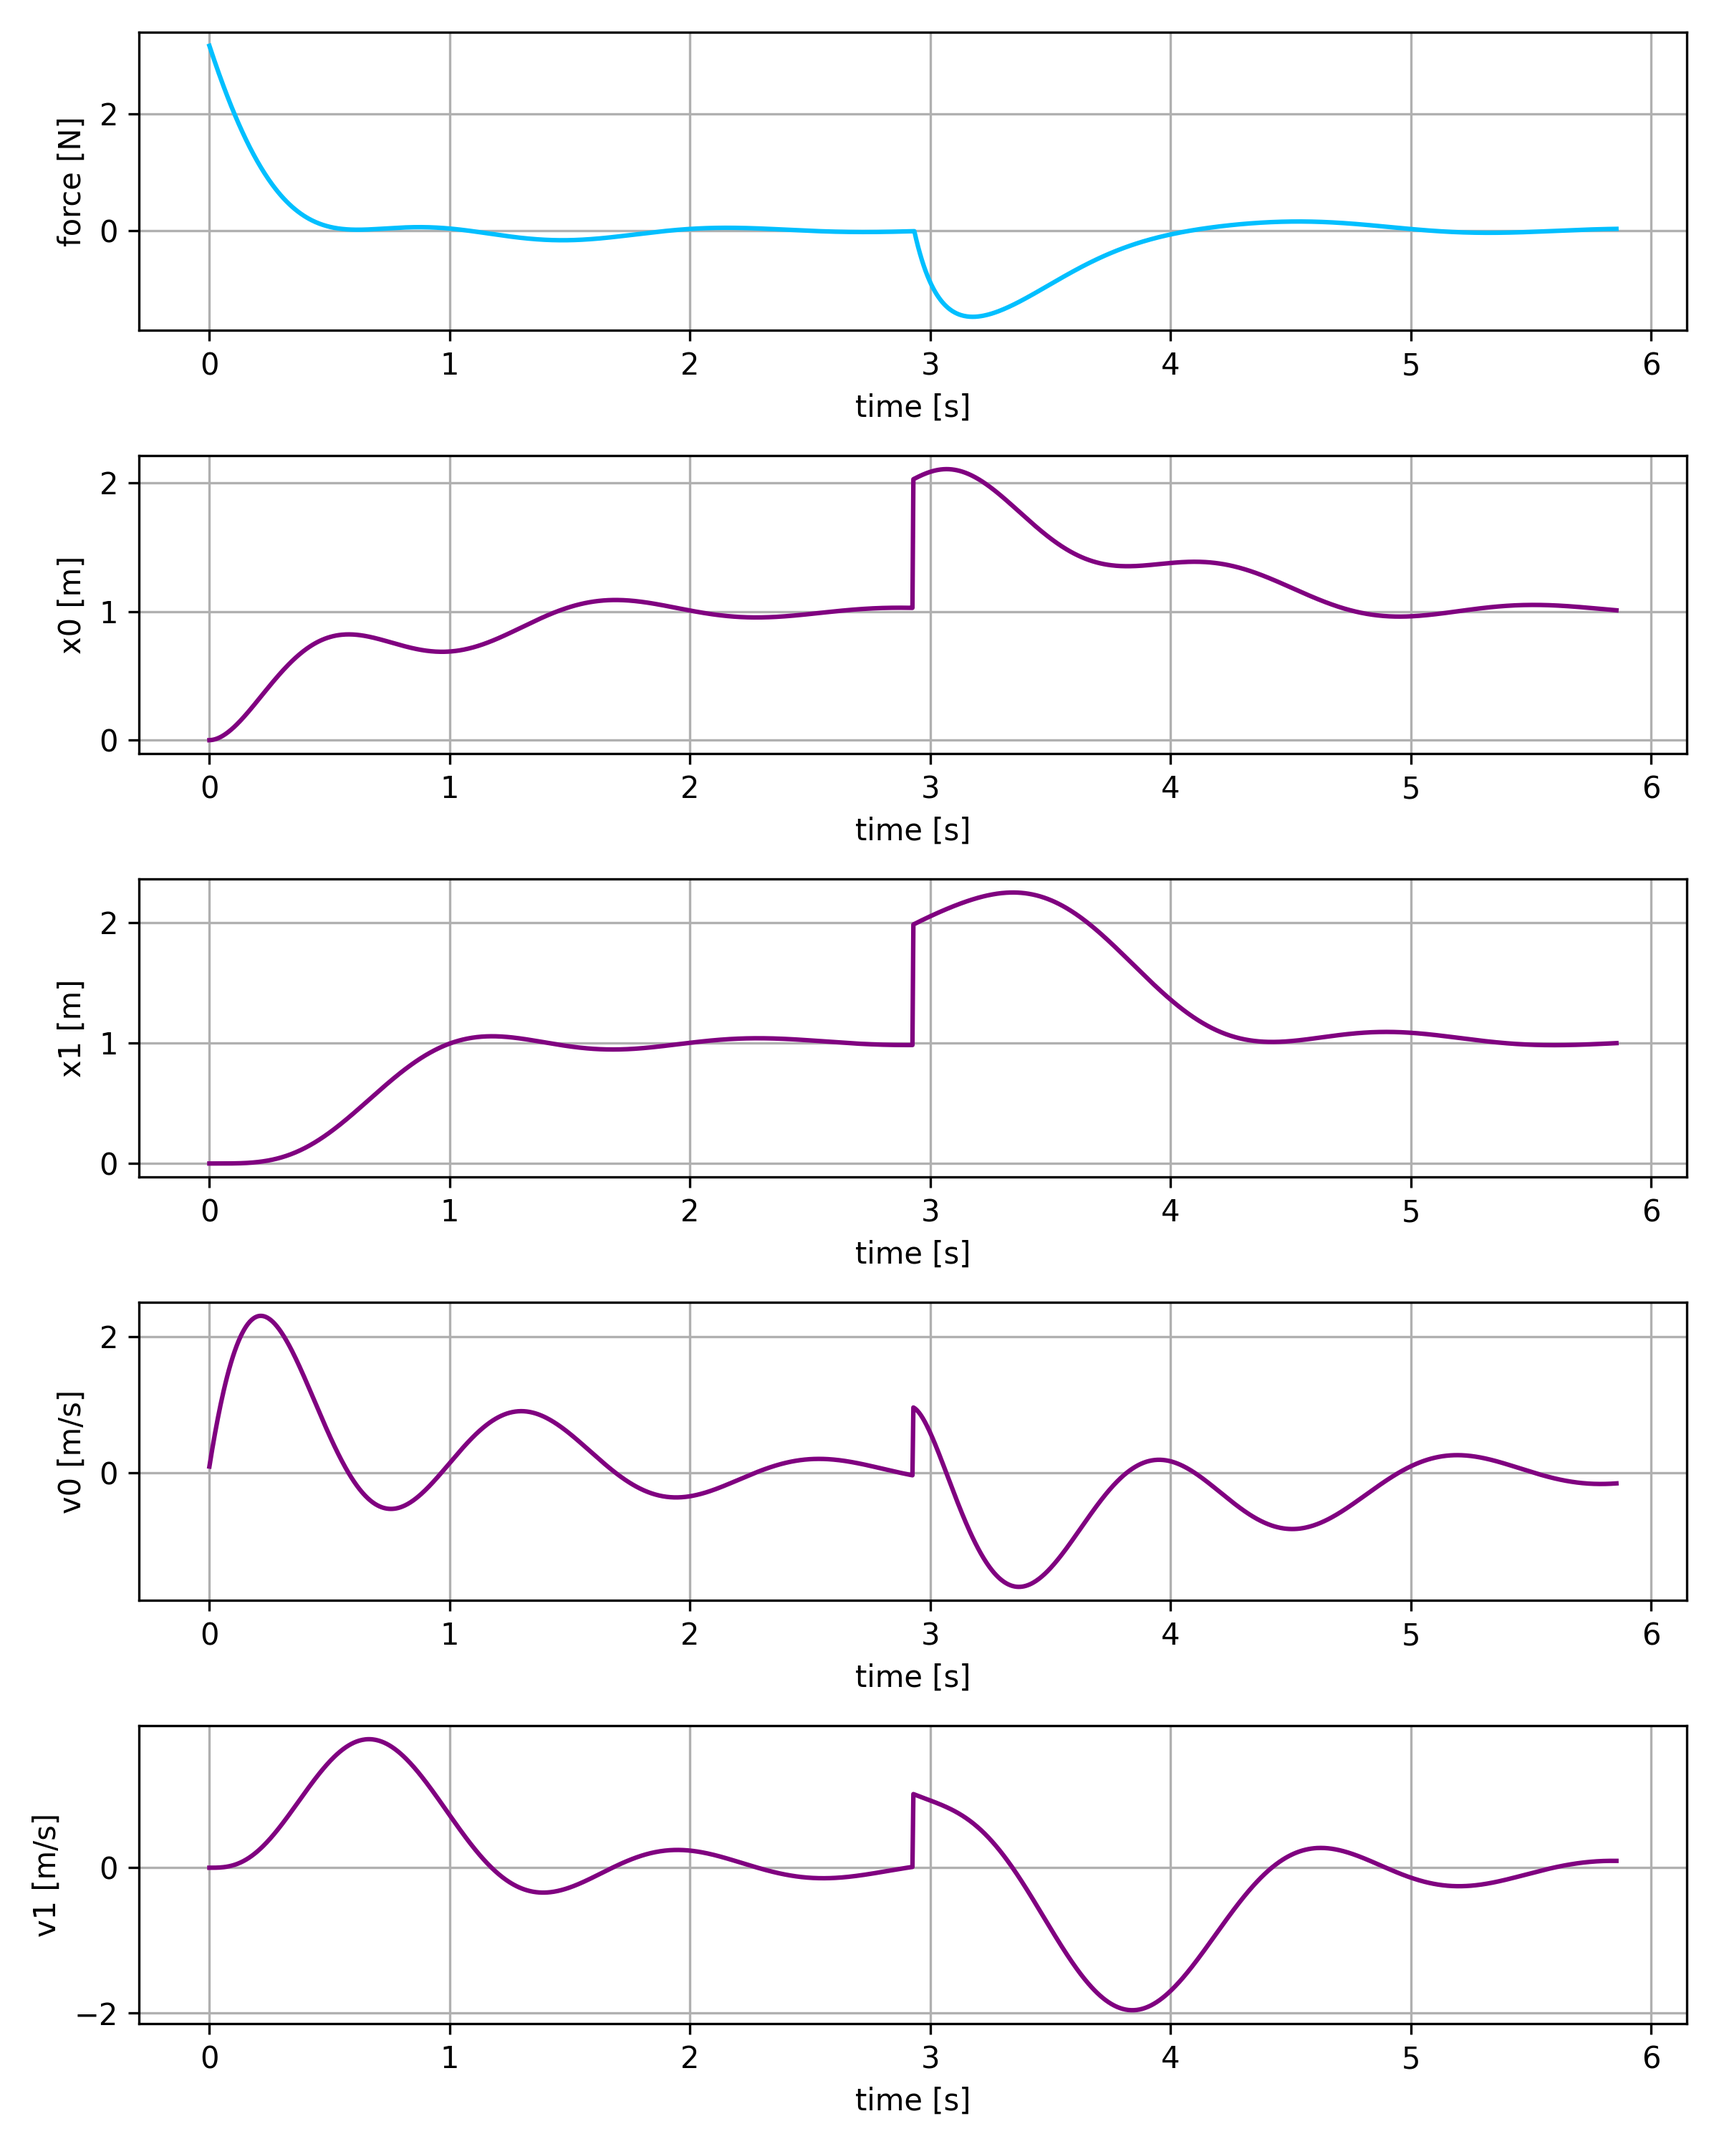
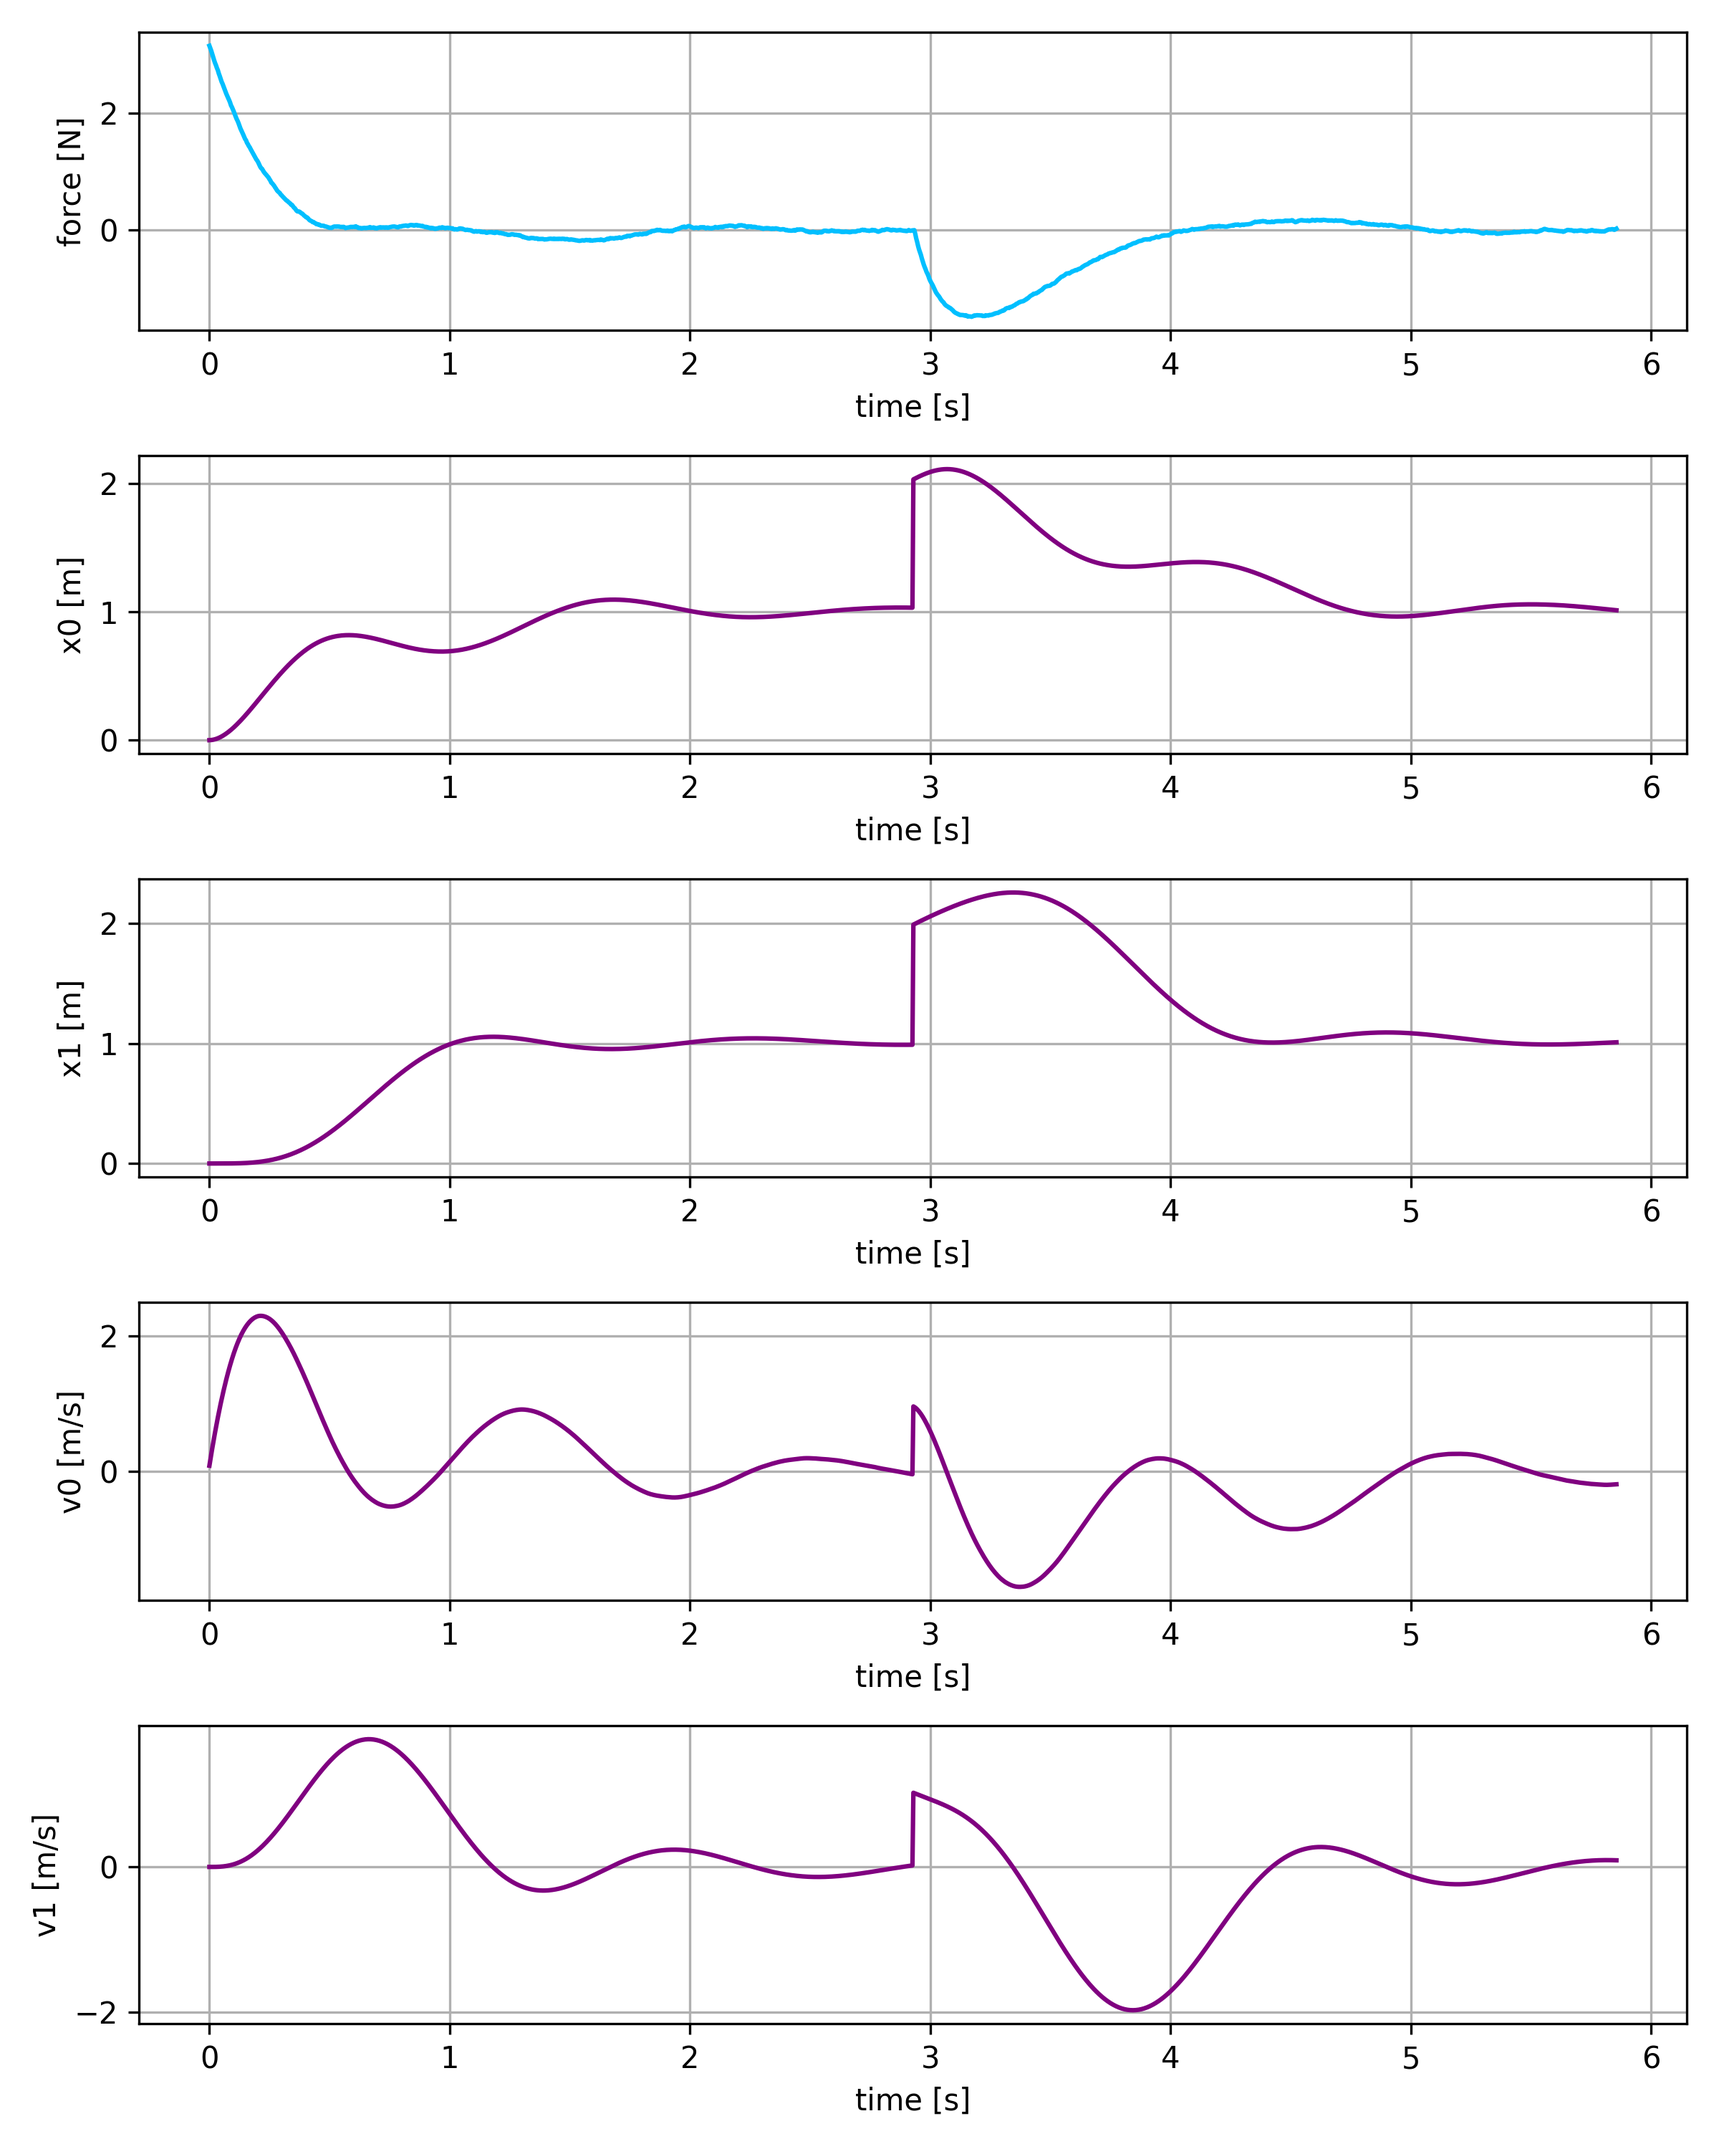
lqg

diff --git a/LibsControl/libs_common/lqr_solver.py b/LibsControl/libs_common/lqr_solver.py
@@ -23,8 +23,8 @@ class LQRSolver:
 
         return self.k, self.g
     
-    def closed_loop_response(self, xr, steps = 500):
-        u_result, x_result, y_result = self._closed_loop_response(self.a, self.b, self.c, xr, self.k, self.g, steps)
+    def closed_loop_response(self, xr, steps = 500, noise = 0.0, disturbance = False):
+        u_result, x_result, y_result = self._closed_loop_response(self.a, self.b, self.c, xr, self.k, self.g, steps, noise, disturbance)
 
         return u_result, x_result, y_result
      
@@ -74,7 +74,7 @@ class LQRSolver:
 
         return g
     
-    def _closed_loop_response(self, a, b, c, xr, k, g = None, steps = 500):
+    def _closed_loop_response(self, a, b, c, xr, k, g = None, steps = 500, noise = 0.0, disturbance = False):
 
         x  = numpy.zeros((a.shape[0], 1))
 
@@ -87,7 +87,7 @@ class LQRSolver:
             g = numpy.ones_like(xr)
 
         for n in range(steps):
-            x_obs       = x + 0.1*numpy.random.randn(x.shape[0], x.shape[1])
+            x_obs       = x + noise*numpy.random.randn(x.shape[0], x.shape[1])
 
             #compute error, include gain scaling matrix
             error = xr*g - x_obs
@@ -100,8 +100,8 @@ class LQRSolver:
             x     = x + (a@x + b@u)*self.dt
 
             
-            if n == steps//2:
-                x[1, 0]+= 1
+            if disturbance == True and n == steps//2:
+                x[:, 0]+= 1
 
 
             y     = c@x

diff --git a/examples/04_lqg_two_carts/lqg_carts.py b/examples/04_lqg_two_carts/lqg_carts.py
@@ -79,7 +79,7 @@ if __name__ == "__main__":
     xr = numpy.array([[0.0, 1.0, 0.0, 0.0]]).T
 
     #step response
-    u_result, x_result, y_result = lqg.closed_loop_response(xr, steps, observation_noise = 0.0, disturbance = True)
+    u_result, x_result, y_result = lqg.closed_loop_response(xr, steps, observation_noise = 0.1, disturbance = True)
 
     LibsControl.plot_closed_loop_response(t_result, u_result, x_result, "results/closed_loop_response.png", ["force [N]"], ["x0 [m]", "x1 [m]", "v0 [m/s]", "v1 [m/s]"] )
     

diff --git a/examples/02_lqr_servo/lqr_servo.py b/examples/02_lqr_servo/lqr_servo.py
@@ -60,4 +60,4 @@ if __name__ == "__main__":
     #step response
     u_result, x_result, y_result = lqr.closed_loop_response(xr, steps)
 
-    LibsControl.plot_closed_loop_response(t_result, u_result, y_result, "results/closed_loop_response.png", ["voltage [V]"], ["velocity, [rad/s]", "position [rad]"] )
+    LibsControl.plot_closed_loop_response(t_result, u_result, x_result, "results/closed_loop_response.png", ["voltage [V]"], ["velocity, [rad/s]", "position [rad]"] )
